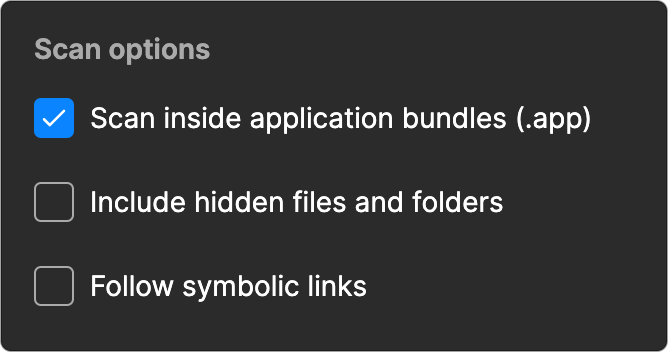
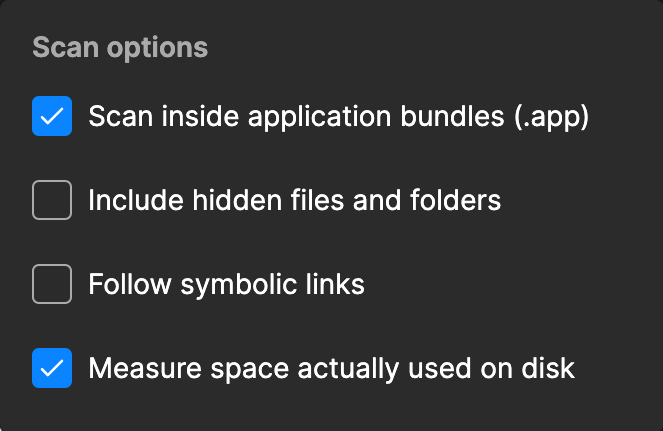
Refresh scan-options screenshot with on-disk size toggle
Recapture docs/images/05-options.png so it shows all four scan options,
including the new "Measure space actually used on disk" toggle, and
update the image alt text.

diff --git a/README.md b/README.md
@@ -60,7 +60,7 @@ the space files **actually occupy on disk**, so undownloaded cloud placeholders
 size if you prefer. Preferences and recent scan locations are remembered between
 runs.
 
-![Scan options: application bundles, hidden files, symbolic links](docs/images/05-options.png)
+![Scan options: application bundles, hidden files, symbolic links, and on-disk size](docs/images/05-options.png)
 
 ## Features
 